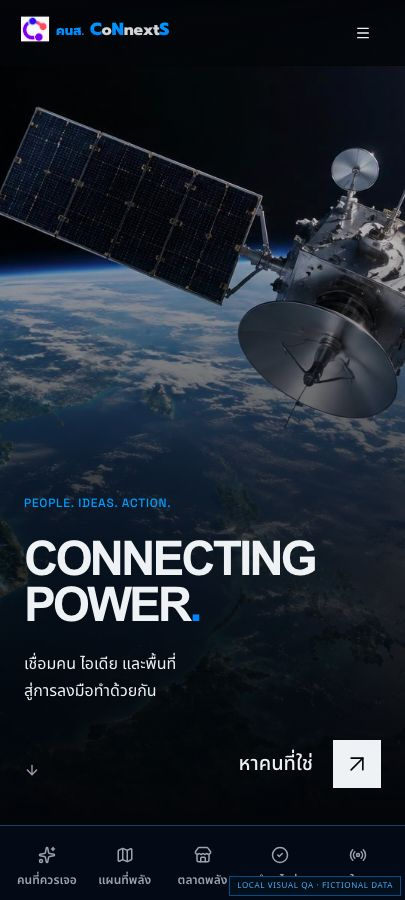
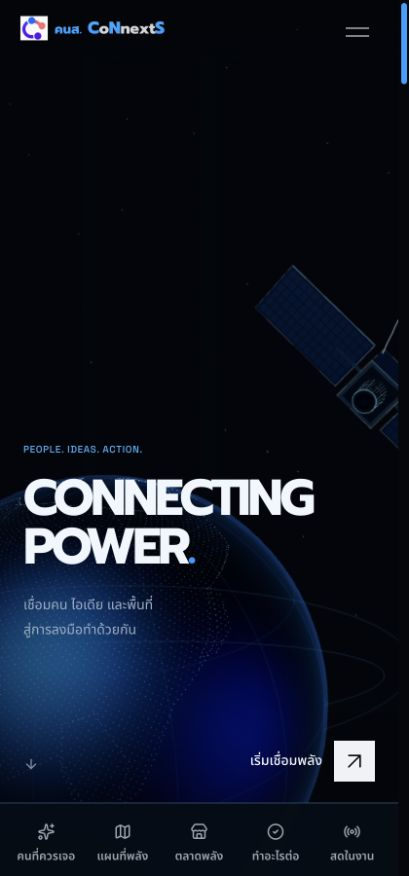
Refresh the 3D homepage journey example

diff --git a/public/journey/README.md b/public/journey/README.md
@@ -2,4 +2,6 @@
 
 These 420 × 900 screenshots show the current shared theme using fictional profiles and in-memory data in an isolated local visual QA harness. The visible “LOCAL VISUAL QA · FICTIONAL DATA” label identifies these examples. They contain no production participant records or credentials.
 
+The homepage image is a static capture of the production 3D opening scene, with no participant data. Scroll-controlled animation is available in the live page.
+
 The QA harness and its mock providers are outside this repository and are not part of the application build. Redirect routes show their resulting screen.
